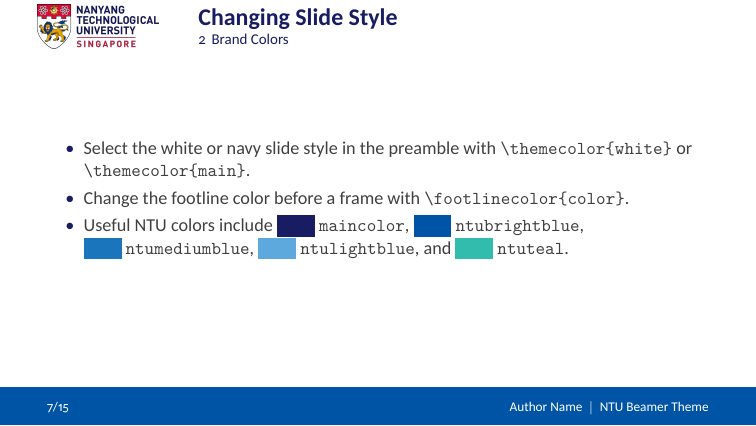
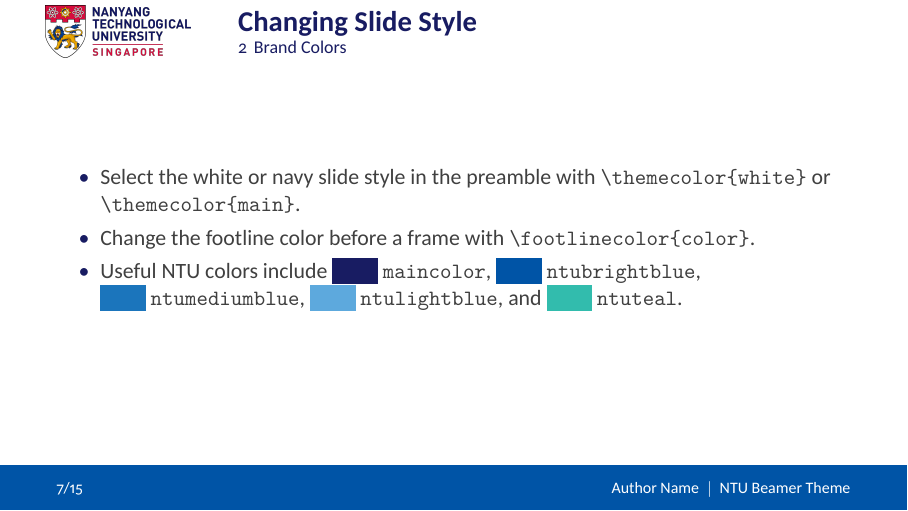
Add unofficial notice and refresh previews

diff --git a/ModernTemplete/beamerntu.tex b/ModernTemplete/beamerntu.tex
@@ -11,7 +11,7 @@
 
 \title{NTU Beamer Theme}
 \subtitle{Nanyang Technological University}
-\course{Presentation Template}
+\course{Unofficial Community Template}
 \author{Author Name}
 \date{\today}
 
@@ -20,6 +20,7 @@
 
 \begin{frame}{About This Template}
 \begin{itemize}
+\item This is an unofficial community template and is not endorsed by NTU.
 \item Uses NTU Blue as the primary theme color.
 \item Uses the supplied NTU logo asset in headers and title backgrounds.
 \item Keeps the presentation system navy-first, with secondary accents in the blue family.

diff --git a/OlderTemplete/slide.tex b/OlderTemplete/slide.tex
@@ -15,7 +15,7 @@
 
 \author{Author Name}
 \title{NTU Beamer Theme}
-\subtitle{Classic Presentation Template}
+\subtitle{Unofficial Classic Presentation Template}
 \institute{Nanyang Technological University}
 \date{\today}
 \usepackage{NTU}
@@ -61,6 +61,7 @@
 
 \begin{frame}{Why Use Beamer?}
   \begin{itemize}[<+-| alert@+>]
+    \item This is an unofficial community template and is not endorsed by NTU.
     \item Beamer provides consistent, reproducible presentation layouts.
     \item The same \LaTeX{} tools can be used for papers, equations, and slides.
     \item This template applies NTU Blue to the title bars, navigation, and footer.

diff --git a/OlderTemplete/README.md b/OlderTemplete/README.md
@@ -1,5 +1,8 @@
 # NTU Classic Beamer Theme
 
+> **Unofficial:** This community template is not affiliated with, maintained
+> by, or endorsed by Nanyang Technological University.
+
 An NTU-branded Beamer theme using the official NTU Blue from
 `../NTUBrandingGuide.md`.
 
@@ -32,3 +35,11 @@ Chinese can be mixed directly into an English slide:
   {\kaishu 南洋理工大学欢迎您。}
 \end{frame}
 ```
+
+## Demo Images
+
+These previews are rendered directly from `slide.pdf`.
+
+![Title slide](demo/front.png)
+![English and Chinese support](demo/bilingual.png)
+![Graphics and columns](demo/graphics.png)

diff --git a/README.md b/README.md
@@ -1,5 +1,9 @@
 # NTU Beamer Templates
 
+> [!IMPORTANT]
+> This is an unofficial community project. It is not affiliated with,
+> maintained by, or endorsed by Nanyang Technological University.
+
 Two Beamer presentation templates adapted for Nanyang Technological University
 (NTU), using a navy-forward palette based on the included
 [NTU branding guide](NTUBrandingGuide.md).
@@ -37,6 +41,8 @@ Use the theme in a presentation with:
 The classic template uses Beamer's smooth navigation bar and a denser academic
 layout. Its sample content is written in English, while Chinese typesetting
 remains supported through `ctex`.
+
+![Classic template preview](OlderTemplete/demo/front.png)
 
 Source and rendered example:
 

diff --git a/ModernTemplete/README.md b/ModernTemplete/README.md
@@ -1,5 +1,8 @@
 # NTU Beamer Template
 
+> **Unofficial:** This community template is not affiliated with, maintained
+> by, or endorsed by Nanyang Technological University.
+
 An NTU-branded Beamer template using the official NTU Blue from
 `../NTUBrandingGuide.md`.
 